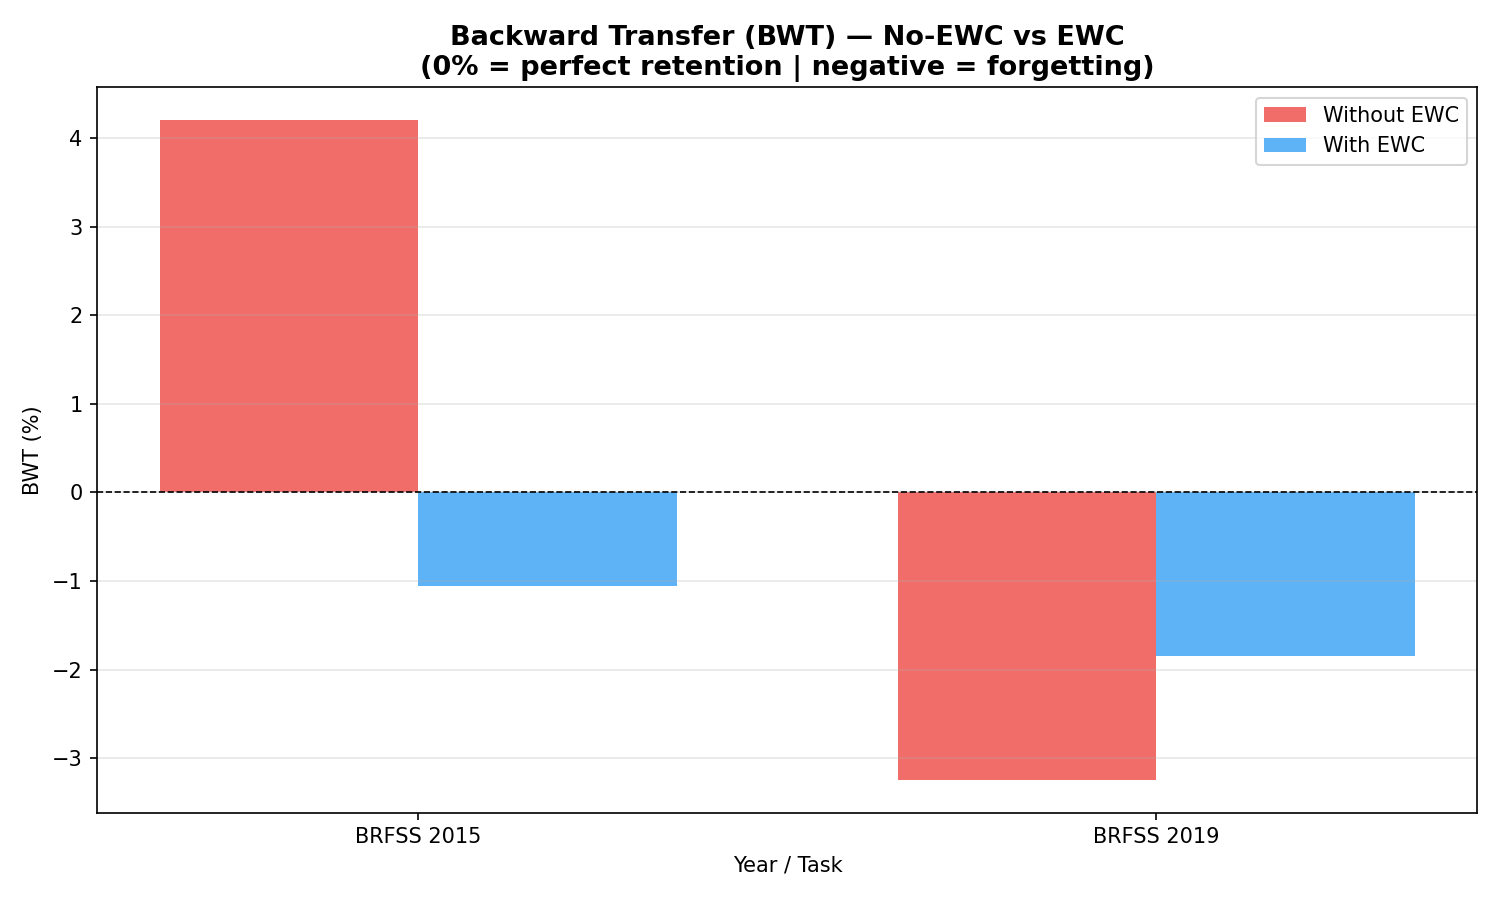
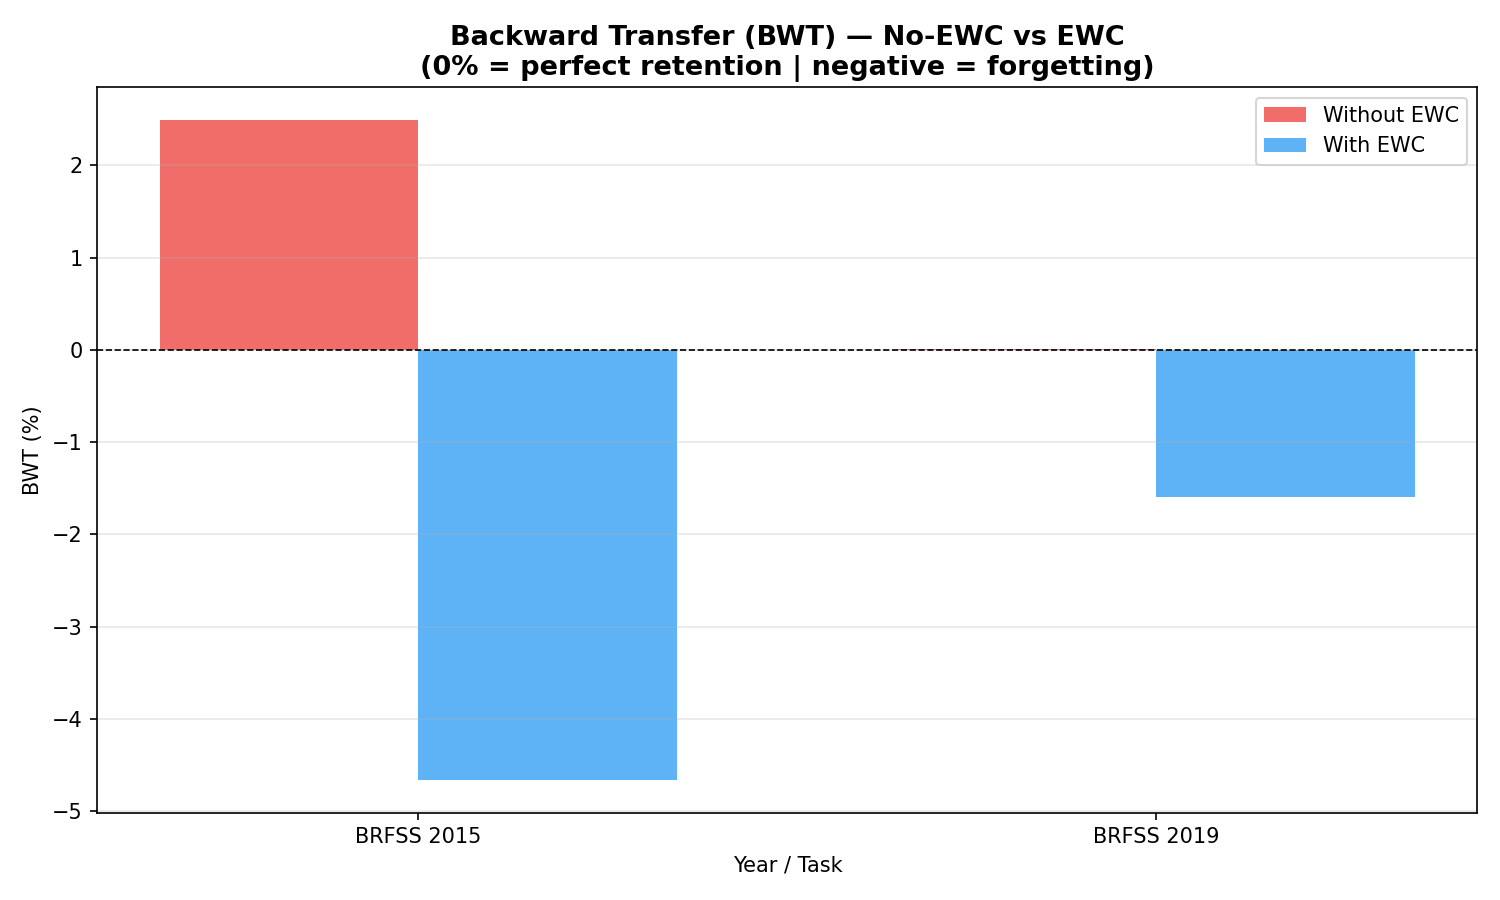
model adjusted and task output fixed

Changed region(s): [[0.5827, 0.3733, 0.9507, 0.8711], [0.092, 0.3733, 0.46, 0.56], [0.276, 0.6533, 0.46, 0.8711]]

diff --git a/src/evaluate.py b/src/evaluate.py
@@ -123,13 +123,16 @@ def full_metrics(model, dataloader, task_name):
     }
 
 
-def evaluate_all_tasks(model, test_loaders, task_names):
-    """Evaluate the model on every task. Returns {task_name: accuracy%}."""
+def evaluate_all_tasks(model, test_loaders, task_names, current_task_idx):
     results = {}
-    for name, loader in zip(task_names, test_loaders):
-        acc         = evaluate(model, loader)
-        results[name] = round(acc * 100, 2)
-        print(f"    {name}: {acc*100:.2f}%")
+
+    for j in range(current_task_idx + 1):
+        acc = evaluate(model, test_loaders[j])
+
+        results[task_names[j]] = round(acc * 100, 2)
+
+        print(f"    {task_names[j]}: {acc * 100:.2f}%")
+
     return results
 
 
@@ -170,36 +173,36 @@ def compute_backward_transfer(results_log, task_names):
     return overall, per_task_bwt
 
 
-def compute_forward_transfer(results_log, task_names, baseline_accs):
-    """
-    Forward Transfer (FWT): did learning earlier years help with later years?
+# def compute_forward_transfer(results_log, task_names, baseline_accs):
+#     """
+#     Forward Transfer (FWT): did learning earlier years help with later years?
 
-    FWT = average [ R(i-1, i) - baseline_i ] for tasks i > 1
+#     FWT = average [ R(i-1, i) - baseline_i ] for tasks i > 1
 
-    R(i-1, i)  = accuracy on task i measured before task i was trained
-    baseline_i = standalone accuracy (Phase A) — the reference point
+#     R(i-1, i)  = accuracy on task i measured before task i was trained
+#     baseline_i = standalone accuracy (Phase A) — the reference point
 
-    Positive FWT → knowledge from earlier years transferred forward.
-    Negative FWT → earlier years interfered with later year learning.
-    """
-    per_task_fwt = {}
+#     Positive FWT → knowledge from earlier years transferred forward.
+#     Negative FWT → earlier years interfered with later year learning.
+#     """
+#     per_task_fwt = {}
 
-    for i in range(1, len(task_names)):
-        name               = task_names[i]
-        acc_before_trained = results_log[i - 1].get(name)
-        baseline           = baseline_accs.get(name)
+#     for i in range(1, len(task_names)):
+#         name               = task_names[i]
+#         acc_before_trained = results_log[i - 1].get(name)
+#         baseline           = baseline_accs.get(name)
 
-        if acc_before_trained is not None and baseline is not None:
-            per_task_fwt[name] = round(acc_before_trained - baseline, 2)
+#         if acc_before_trained is not None and baseline is not None:
+#             per_task_fwt[name] = round(acc_before_trained - baseline, 2)
 
-    overall = round(np.mean(list(per_task_fwt.values())), 2) if per_task_fwt else 0.0
+#     overall = round(np.mean(list(per_task_fwt.values())), 2) if per_task_fwt else 0.0
 
-    print(f"\n  Forward Transfer (FWT): {overall:+.2f}%")
-    for name, val in per_task_fwt.items():
-        status = '✓ positive' if val >= 0 else '✗ negative'
-        print(f"    {name}: {val:+.2f}%  {status}")
+#     print(f"\n  Forward Transfer (FWT): {overall:+.2f}%")
+#     for name, val in per_task_fwt.items():
+#         status = '✓ positive' if val >= 0 else '✗ negative'
+#         print(f"    {name}: {val:+.2f}%  {status}")
 
-    return overall, per_task_fwt
+#     return overall, per_task_fwt
 
 
 # ──────────────────────────────────────────
@@ -404,54 +407,54 @@ def plot_backward_transfer(per_bwt_noewc, per_bwt_ewc, output_dir='results'):
     _save('04_backward_transfer.png', output_dir)
 
 
-def plot_forward_transfer(per_fwt_noewc, per_fwt_ewc, output_dir='results'):
-    """Bar chart: forward transfer per task — No-EWC vs EWC."""
-    tasks     = list(per_fwt_ewc.keys())
-    if not tasks:
-        return
-    noewc_vals = [per_fwt_noewc.get(t, 0) for t in tasks]
-    ewc_vals   = [per_fwt_ewc.get(t, 0)   for t in tasks]
-    x          = np.arange(len(tasks))
-    w          = 0.35
+# def plot_forward_transfer(per_fwt_noewc, per_fwt_ewc, output_dir='results'):
+#     """Bar chart: forward transfer per task — No-EWC vs EWC."""
+#     tasks     = list(per_fwt_ewc.keys())
+#     if not tasks:
+#         return
+#     noewc_vals = [per_fwt_noewc.get(t, 0) for t in tasks]
+#     ewc_vals   = [per_fwt_ewc.get(t, 0)   for t in tasks]
+#     x          = np.arange(len(tasks))
+#     w          = 0.35
 
-    fig, ax = plt.subplots(figsize=(10, 6))
-    ax.bar(x - w/2, noewc_vals, w, label='Without EWC', color='#EF5350', alpha=0.85)
-    ax.bar(x + w/2, ewc_vals,   w, label='With EWC',    color='#42A5F5', alpha=0.85)
-    ax.axhline(0, color='black', linewidth=0.8, linestyle='--')
-    ax.set_title('Forward Transfer (FWT) — No-EWC vs EWC\n(positive = earlier years helped future years)',
-                 fontsize=13, fontweight='bold')
-    ax.set_xlabel('Year / Task')
-    ax.set_ylabel('FWT (%)')
-    ax.set_xticks(x)
-    ax.set_xticklabels([t.split('—')[-1].strip() for t in tasks])
-    ax.legend()
-    ax.grid(True, alpha=0.3, axis='y')
-    _save('05_forward_transfer.png', output_dir)
+#     fig, ax = plt.subplots(figsize=(10, 6))
+#     ax.bar(x - w/2, noewc_vals, w, label='Without EWC', color='#EF5350', alpha=0.85)
+#     ax.bar(x + w/2, ewc_vals,   w, label='With EWC',    color='#42A5F5', alpha=0.85)
+#     ax.axhline(0, color='black', linewidth=0.8, linestyle='--')
+#     ax.set_title('Forward Transfer (FWT) — No-EWC vs EWC\n(positive = earlier years helped future years)',
+#                  fontsize=13, fontweight='bold')
+#     ax.set_xlabel('Year / Task')
+#     ax.set_ylabel('FWT (%)')
+#     ax.set_xticks(x)
+#     ax.set_xticklabels([t.split('—')[-1].strip() for t in tasks])
+#     ax.legend()
+#     ax.grid(True, alpha=0.3, axis='y')
+#     _save('05_forward_transfer.png', output_dir)
 
 
-def plot_transfer_summary(bwt_noewc, bwt_ewc, fwt_noewc, fwt_ewc, output_dir='results'):
-    """Single chart showing overall BWT and FWT for both models."""
-    metrics   = ['Backward Transfer (BWT)', 'Forward Transfer (FWT)']
-    noewc_v   = [bwt_noewc, fwt_noewc]
-    ewc_v     = [bwt_ewc,   fwt_ewc]
-    x         = np.arange(len(metrics))
-    w         = 0.35
+# def plot_transfer_summary(bwt_noewc, bwt_ewc, fwt_noewc, fwt_ewc, output_dir='results'):
+#     """Single chart showing overall BWT and FWT for both models."""
+#     metrics   = ['Backward Transfer (BWT)', 'Forward Transfer (FWT)']
+#     noewc_v   = [bwt_noewc, fwt_noewc]
+#     ewc_v     = [bwt_ewc,   fwt_ewc]
+#     x         = np.arange(len(metrics))
+#     w         = 0.35
 
-    fig, ax = plt.subplots(figsize=(9, 6))
-    ax.bar(x - w/2, noewc_v, w, label='Without EWC', color='#EF5350', alpha=0.85)
-    ax.bar(x + w/2, ewc_v,   w, label='With EWC',    color='#42A5F5', alpha=0.85)
-    for i, (nv, ev) in enumerate(zip(noewc_v, ewc_v)):
-        ax.text(i - w/2, nv + (0.3 if nv >= 0 else -1.5), f'{nv:+.2f}%', ha='center', fontsize=11, fontweight='bold')
-        ax.text(i + w/2, ev + (0.3 if ev >= 0 else -1.5), f'{ev:+.2f}%', ha='center', fontsize=11, fontweight='bold')
-    ax.axhline(0, color='black', linewidth=0.8, linestyle='--')
-    ax.set_title('Transfer Learning Summary\n(BWT: closer to 0 is better | FWT: higher is better)',
-                 fontsize=13, fontweight='bold')
-    ax.set_xticks(x)
-    ax.set_xticklabels(metrics)
-    ax.set_ylabel('Score (%)')
-    ax.legend()
-    ax.grid(True, alpha=0.3, axis='y')
-    _save('06_transfer_summary.png', output_dir)
+#     fig, ax = plt.subplots(figsize=(9, 6))
+#     ax.bar(x - w/2, noewc_v, w, label='Without EWC', color='#EF5350', alpha=0.85)
+#     ax.bar(x + w/2, ewc_v,   w, label='With EWC',    color='#42A5F5', alpha=0.85)
+#     for i, (nv, ev) in enumerate(zip(noewc_v, ewc_v)):
+#         ax.text(i - w/2, nv + (0.3 if nv >= 0 else -1.5), f'{nv:+.2f}%', ha='center', fontsize=11, fontweight='bold')
+#         ax.text(i + w/2, ev + (0.3 if ev >= 0 else -1.5), f'{ev:+.2f}%', ha='center', fontsize=11, fontweight='bold')
+#     ax.axhline(0, color='black', linewidth=0.8, linestyle='--')
+#     ax.set_title('Transfer Learning Summary\n(BWT: closer to 0 is better | FWT: higher is better)',
+#                  fontsize=13, fontweight='bold')
+#     ax.set_xticks(x)
+#     ax.set_xticklabels(metrics)
+#     ax.set_ylabel('Score (%)')
+#     ax.legend()
+#     ax.grid(True, alpha=0.3, axis='y')
+#     _save('06_transfer_summary.png', output_dir)
 
 
 def plot_confusion_matrices_comparison(noewc_model, ewc_model, test_loaders, task_names, output_dir='results'):

diff --git a/main.py b/main.py
@@ -43,12 +43,13 @@ from src.replay   import ReplayBuffer
 from src.train    import train_normal, train_ewc, train_ewc_replay
 from src.evaluate import (
     evaluate, evaluate_all_tasks, full_metrics,
-    compute_backward_transfer, compute_forward_transfer,
+    compute_backward_transfer,
+    # compute_forward_transfer,
     calibrate_all_tasks, full_metrics_calibrated,
     save_results, save_full_metrics,
     plot_noewc_vs_ewc, plot_ewc_accuracy_over_stages,
     plot_noewc_accuracy_over_stages, plot_backward_transfer,
-    plot_forward_transfer, plot_transfer_summary,
+    # plot_forward_transfer, plot_transfer_summary,
     plot_confusion_matrices_comparison, plot_roc_comparison,
     plot_metrics_comparison, plot_forgetting_heatmap,
     plot_training_loss_curves, plot_ewc_penalty_magnitude,
@@ -58,16 +59,16 @@ from src.evaluate import (
 # ─────────────────────────────────────────
 # CONFIGURATION
 # ─────────────────────────────────────────
-EPOCHS             = 50      # training epochs per task
-LR                 = 0.001   # learning rate
-LAMBDA_EWC         = 10000   # EWC penalty strength
+EPOCHS             = 30      # training epochs per task
+LR                 = 1e-3   # learning rate
+LAMBDA_EWC         = 500   # EWC penalty strength
 BATCH_SIZE         = 64
-MAX_FISHER_SAMPLES = 2000
+MAX_FISHER_SAMPLES = 1000
 
 # Replay buffer: how many samples to store per past task.
 # 500 means Task 3 trains on its own data + 500 from 2015 + 500 from 2019.
 # Increase for better retention at the cost of longer training.
-REPLAY_SAMPLES_PER_TASK = 500
+REPLAY_SAMPLES_PER_TASK = 2000
 
 # Set to True to run standalone baselines (needed for Forward Transfer metric).
 RUN_BASELINES = True
@@ -94,24 +95,24 @@ print(f"\n  Input features : {input_size}")
 print(f"  Tasks          : {TASK_NAMES}")
 
 
-# ═══════════════════════════════════════════════════════════
-# PHASE A — STANDALONE BASELINES (optional)
-# ═══════════════════════════════════════════════════════════
-baseline_accs = {}
+# # ═══════════════════════════════════════════════════════════
+# # PHASE A — STANDALONE BASELINES (optional)
+# # ═══════════════════════════════════════════════════════════
+# baseline_accs = {}
 
-if RUN_BASELINES:
-    section("PHASE A: STANDALONE BASELINES (one fresh model per year)")
-    for i, name in enumerate(TASK_NAMES):
-        print(f"\n  Training standalone model for: {name}")
-        m    = init_model(input_size)
-        m, _ = train_normal(m, train_loaders[i], epochs=EPOCHS, lr=LR)
-        acc  = evaluate(m, test_loaders[i])
-        baseline_accs[name] = round(acc * 100, 2)
-        print(f"  Standalone accuracy: {acc*100:.2f}%")
-    print(f"\n  Baselines: {baseline_accs}")
-else:
-    section("PHASE A: SKIPPED (RUN_BASELINES = False)")
-    print("  Forward Transfer will not be computed.")
+# if RUN_BASELINES:
+#     section("PHASE A: STANDALONE BASELINES (one fresh model per year)")
+#     for i, name in enumerate(TASK_NAMES):
+#         print(f"\n  Training standalone model for: {name}")
+#         m    = init_model(input_size)
+#         m, _ = train_normal(m, train_loaders[i], epochs=EPOCHS, lr=LR)
+#         acc  = evaluate(m, test_loaders[i])
+#         baseline_accs[name] = round(acc * 100, 2)
+#         print(f"  Standalone accuracy: {acc*100:.2f}%")
+#     print(f"\n  Baselines: {baseline_accs}")
+# else:
+#     section("PHASE A: SKIPPED (RUN_BASELINES = False)")
+#     print("  Forward Transfer will not be computed.")
 
 
 # ═══════════════════════════════════════════════════════════
@@ -128,11 +129,11 @@ for i, name in enumerate(TASK_NAMES):
     noewc_model, h = train_normal(noewc_model, train_loaders[i], epochs=EPOCHS, lr=LR)
     noewc_histories.append(h)
     print(f"\n  Evaluating all years after {name}:")
-    noewc_log.append(evaluate_all_tasks(noewc_model, test_loaders, TASK_NAMES))
+    noewc_log.append(evaluate_all_tasks(noewc_model, test_loaders, TASK_NAMES, i))
 
 section("PHASE B: TRANSFER METRICS — No-EWC")
 bwt_noewc, per_bwt_noewc = compute_backward_transfer(noewc_log, TASK_NAMES)
-fwt_noewc, per_fwt_noewc = compute_forward_transfer(noewc_log, TASK_NAMES, baseline_accs)
+# fwt_noewc, per_fwt_noewc = compute_forward_transfer(noewc_log, TASK_NAMES, baseline_accs)
 
 print("\n  Full metrics — No-EWC final model:")
 noewc_metrics = [
@@ -164,7 +165,7 @@ for i, name in enumerate(TASK_NAMES):
 
     ewc_histories.append(h)
     print(f"\n  Evaluating all years after {name}:")
-    ewc_log.append(evaluate_all_tasks(ewc_model, test_loaders, TASK_NAMES))
+    ewc_log.append(evaluate_all_tasks(ewc_model, test_loaders, TASK_NAMES, i))
 
     print(f"\n  Computing normalised Fisher for {name}...")
     ewc_objects.append(
@@ -174,7 +175,7 @@ for i, name in enumerate(TASK_NAMES):
 
 section("PHASE C: TRANSFER METRICS — EWC")
 bwt_ewc, per_bwt_ewc = compute_backward_transfer(ewc_log, TASK_NAMES)
-fwt_ewc, per_fwt_ewc = compute_forward_transfer(ewc_log, TASK_NAMES, baseline_accs)
+# fwt_ewc, per_fwt_ewc = compute_forward_transfer(ewc_log, TASK_NAMES, baseline_accs)
 
 print("\n  Full metrics — EWC final model:")
 ewc_metrics = [
@@ -240,7 +241,7 @@ for i, name in enumerate(TASK_NAMES):
 
     # Evaluate on all tasks after this one
     print(f"\n  Evaluating all years after {name}:")
-    replay_log.append(evaluate_all_tasks(replay_model, test_loaders, TASK_NAMES))
+    replay_log.append(evaluate_all_tasks(replay_model, test_loaders, TASK_NAMES, i))
 
     # Compute and store Fisher (on current task data only — not the combined set)
     print(f"\n  Computing normalised Fisher for {name}...")
@@ -255,7 +256,7 @@ for i, name in enumerate(TASK_NAMES):
 
 section("PHASE D: TRANSFER METRICS — EWC + Replay")
 bwt_replay, per_bwt_replay = compute_backward_transfer(replay_log, TASK_NAMES)
-fwt_replay, per_fwt_replay = compute_forward_transfer(replay_log, TASK_NAMES, baseline_accs)
+# fwt_replay, per_fwt_replay = compute_forward_transfer(replay_log, TASK_NAMES, baseline_accs)
 
 print("\n  Full metrics — EWC + Replay final model:")
 replay_metrics = [
@@ -322,8 +323,8 @@ plot_noewc_vs_ewc(noewc_final, ewc_final, TASK_NAMES)
 plot_ewc_accuracy_over_stages(ewc_log, TASK_NAMES)
 plot_noewc_accuracy_over_stages(noewc_log, TASK_NAMES)
 plot_backward_transfer(per_bwt_noewc, per_bwt_ewc)
-plot_forward_transfer(per_fwt_noewc, per_fwt_ewc)
-plot_transfer_summary(bwt_noewc, bwt_ewc, fwt_noewc, fwt_ewc)
+# plot_forward_transfer(per_fwt_noewc, per_fwt_ewc)
+# plot_transfer_summary(bwt_noewc, bwt_ewc, fwt_noewc, fwt_ewc)
 plot_confusion_matrices_comparison(noewc_model, ewc_model, test_loaders, TASK_NAMES)
 plot_roc_comparison(noewc_model, ewc_model, test_loaders, TASK_NAMES)
 plot_metrics_comparison(noewc_metrics, ewc_metrics)
@@ -369,11 +370,11 @@ print(f"  No-EWC     : {bwt_noewc:+.2f}%  (negative = forgetting)")
 print(f"  EWC        : {bwt_ewc:+.2f}%  (closer to 0 = EWC working)")
 print(f"  EWC+Replay : {bwt_replay:+.2f}%  (should be best — closest to 0)")
 
-if baseline_accs:
-    print(f"\n  ── Forward Transfer (FWT) ──")
-    print(f"  No-EWC     : {fwt_noewc:+.2f}%")
-    print(f"  EWC        : {fwt_ewc:+.2f}%")
-    print(f"  EWC+Replay : {fwt_replay:+.2f}%")
+# if baseline_accs:
+#     print(f"\n  ── Forward Transfer (FWT) ──")
+#     print(f"  No-EWC     : {fwt_noewc:+.2f}%")
+#     print(f"  EWC        : {fwt_ewc:+.2f}%")
+#     print(f"  EWC+Replay : {fwt_replay:+.2f}%")
 
 print("\n  ── Calibrated Recall ──")
 print(f"\n  EWC:")
